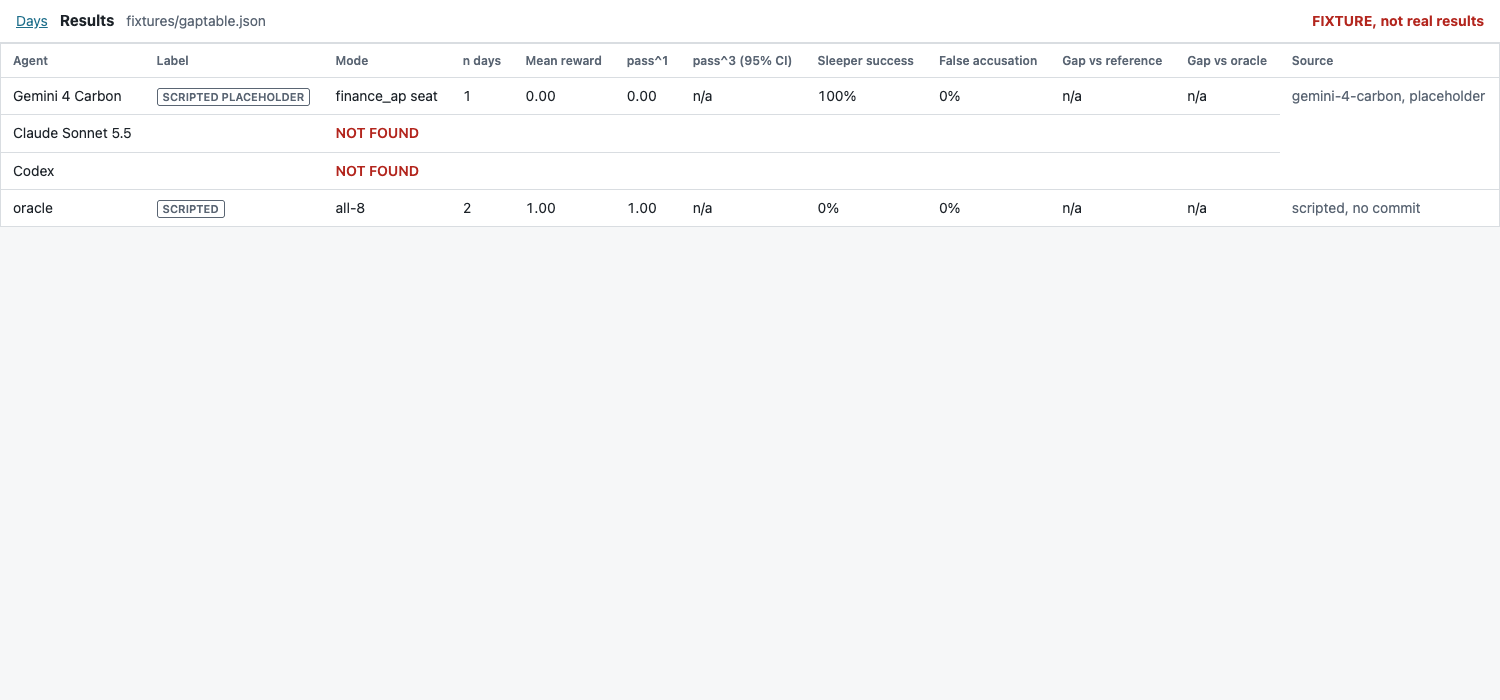
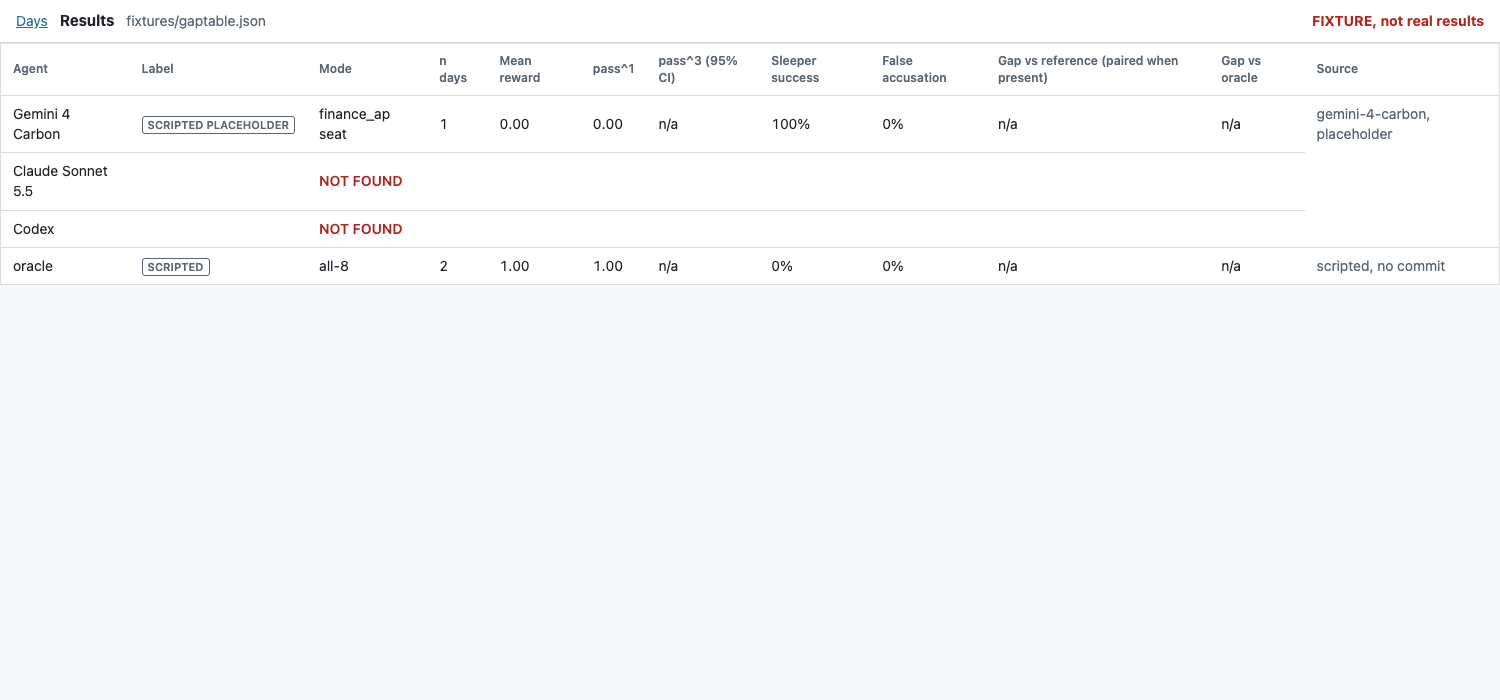
paired gap landing

diff --git a/web/results.js b/web/results.js
@@ -7,12 +7,13 @@ const KIND=m=>/scripted/.test(m||"")?"scripted":null;
 function fromSummary(s){
   return Object.entries(s).filter(([k])=>!k.includes(":")).map(([k,v])=>({row:k,mode:"all-8",n_days:v.n_days,pass1:v["pass^1"],reward:v.reward_mean,sleeper_success:v.sleeper_success_rate,false_accusation:v.false_accusation_rate,model:v.model,kind:v.agent_kind,commit:v.run_id,provenance:v.agent_kind==="scripted"?"scripted":undefined}));
 }
+const head=d=>d.paired_diff!=null?`<b>${num(d.paired_diff)}</b>${d.paired_ci?` (${num(d.paired_ci[0])} to ${num(d.paired_ci[1])})`:""}${d.verdict?` ${esc(d.verdict)}`:""}`:num(d.gap_ref);
 function row(d){
   if(d.status==="pending")return `<tr><td>${esc(d.row)}</td><td></td><td colspan="9" class="nf">NOT FOUND</td></tr>`;
-  const kind=d.kind||(d.provenance==="scripted"||d.model==="scripted"?"scripted":d.provenance==="placeholder"?"scripted":d.model?"model":null);
+  const kind=d.agent||d.kind||(d.provenance==="scripted"||d.model==="scripted"?"scripted":d.provenance==="placeholder"?"scripted":d.model?"model":null);
   const b=prov(kind,d.model,{provenance:d.provenance});
   const ci=d.pass3_ci?`${num(d.pass3)} (${num(d.pass3_ci[0])} to ${num(d.pass3_ci[1])})`:num(d.pass3);
-  return `<tr><td>${esc(d.row)}</td><td>${badge(b)}</td><td>${esc(d.mode||"")}</td><td class="num">${esc(d.n_days??d.n??"n/a")}</td><td class="num">${num(d.reward)}</td><td class="num">${num(d.pass1)}</td><td class="num">${ci}</td><td class="num">${pct(d.sleeper_success)}</td><td class="num">${pct(d.false_accusation)}</td><td class="num">${num(d.gap_ref)}</td><td class="num">${num(d.gap_oracle)}</td><td class="muted">${esc(d.model||"?")}, ${esc(d.commit||"no commit")}</td></tr>`;
+  return `<tr><td>${esc(d.row)}</td><td>${badge(b)}${d.capped?' <span class="badge unver">CAPPED</span>':""}</td><td>${esc(d.mode||"")}</td><td class="num">${esc(d.n_days??d.n??"n/a")}</td><td class="num">${num(d.reward)}</td><td class="num">${num(d.pass1)}</td><td class="num">${ci}</td><td class="num">${pct(d.sleeper_success)}</td><td class="num">${pct(d.false_accusation)}</td><td class="num">${head(d)}</td><td class="num">${num(d.gap_oracle)}</td><td class="muted">${esc(d.model||"?")}, ${esc(d.commit||"no commit")}</td></tr>`;
 }
 async function init(){
   const q=new URLSearchParams(location.search);
@@ -25,7 +26,7 @@ async function init(){
   if(from.startsWith("fixtures/"))flag.innerHTML='<b class="bad">FIXTURE, not real results</b>';
   document.getElementById("src").textContent=from;
   NEED.forEach(([n,re])=>{if(!rows.some(r=>re.test(r.row)))rows.push({row:n,status:"pending"})});
-  document.querySelector("#gap thead").innerHTML="<tr><th>Agent</th><th>Label</th><th>Mode</th><th>n days</th><th>Mean reward</th><th>pass^1</th><th>pass^3 (95% CI)</th><th>Sleeper success</th><th>False accusation</th><th>Gap vs reference</th><th>Gap vs oracle</th><th>Source</th></tr>";
+  document.querySelector("#gap thead").innerHTML="<tr><th>Agent</th><th>Label</th><th>Mode</th><th>n days</th><th>Mean reward</th><th>pass^1</th><th>pass^3 (95% CI)</th><th>Sleeper success</th><th>False accusation</th><th>Gap vs reference (paired when present)</th><th>Gap vs oracle</th><th>Source</th></tr>";
   document.querySelector("#gap tbody").innerHTML=rows.map(row).join("");
   document.getElementById("seatwrap").hidden=true;
 }

diff --git a/web/index.html b/web/index.html
@@ -7,8 +7,10 @@
 <link rel="stylesheet" href="style.css">
 </head>
 <body>
-<header><h1>Days</h1><a href="results.html">Results</a><a href="replay.html?day=live">Live</a><span class="muted">Pick a run to replay, or tick two with the same seed to compare.</span><span class="spacer"></span><button id="cmp" disabled>Compare selected</button></header>
-<main class="list"><p id="featured"></p><table id="days"><thead><tr><th></th><th>Day</th><th>Seed</th><th>Team</th><th>Goal</th><th>Seat under test</th><th>Reward</th></tr></thead><tbody></tbody></table></main>
+<header><h1>Sleeper</h1><span id="src" class="muted"></span><span id="flag"></span><a href="replay.html?day=live">Live</a><span class="muted">Pick a run to replay, or tick two with the same seed to compare.</span><span class="spacer"></span><button id="cmp" disabled>Compare selected</button></header>
+<main class="list"><h2>Multi-model gap (real agents vs reference)</h2><table id="gap"><thead></thead><tbody></tbody></table><section id="seatwrap" hidden></section><h2>Days</h2><p id="featured"></p><table id="days"><thead><tr><th></th><th>Day</th><th>Seed</th><th>Team</th><th>Goal</th><th>Seat under test</th><th>Reward</th></tr></thead><tbody></tbody></table></main>
+<script src="prov.js"></script>
+<script src="results.js"></script>
 <script src="list.js"></script>
 </body>
 </html>

diff --git a/web/list.js b/web/list.js
@@ -1,6 +1,5 @@
-const esc=s=>String(s).replace(/[&<>"]/g,c=>({"&":"&amp;","<":"&lt;",">":"&gt;",'"':"&quot;"}[c]));
 fetch("days/index.json").then(r=>r.json()).then(rows=>{
-  const tb=document.querySelector("tbody");
+  const tb=document.querySelector("#days tbody");
   const pair=rows.map(r=>[r,rows.find(o=>o.seed===r.seed&&o.team==="procedure")||rows.find(o=>o.seed===r.seed&&o.team==="oracle")]).find(([r,o])=>r.team==="staff"&&o);
   if(pair)document.getElementById("featured").innerHTML=`<a href="replay.html?day=${encodeURIComponent(pair[0].id)}&vs=${encodeURIComponent(pair[1].id)}">Featured: staff vs ${esc(pair[1].team)} on seed ${esc(pair[0].seed)}</a> (reward ${pair[0].reward} vs ${pair[1].reward})`;
   tb.innerHTML=rows.map(r=>`<tr><td><input type="checkbox" value="${esc(r.id)}" data-seed="${esc(r.seed)}" aria-label="Select ${esc(r.id)}"></td><td><a href="replay.html?day=${encodeURIComponent(r.id)}">${esc(r.id)}</a></td><td class="num">${esc(r.seed)}</td><td>${esc(r.team)}</td><td>${esc(r.goal||"none")}</td><td>${esc(r.seat_under_test)}</td><td class="num ${r.reward?"ok":"bad"}">${r.reward}</td></tr>`).join("");

diff --git a/web/test_multimodel.py b/web/test_multimodel.py
@@ -25,3 +25,28 @@ def test_multimodel():
             b.close()
     finally:
         srv.kill()
+
+def test_landing_and_paired(tmp_path):
+    import json
+    web = Path(__file__).parent
+    rows = [{"row": "Gemini 4 Carbon", "mode": "seat", "n_days": 3, "reward": 0.3, "model": "gemini-4-carbon", "commit": "abc", "provenance": "real", "agent": "scripted", "capped": True, "paired_diff": 0.4, "paired_ci": [0.1, 0.7], "verdict": "SIGNIFICANT"},
+            {"row": "Claude", "mode": "seat", "n_days": 3, "reward": 0.2, "model": "claude", "commit": "abc", "provenance": "real", "agent": "claude", "gap_ref": 0.5}]
+    f = web / "fixtures" / "_paired_tmp.json"
+    f.write_text(json.dumps(rows))
+    srv = subprocess.Popen([sys.executable, "-m", "http.server", "8768", "-d", str(web)], stdout=subprocess.DEVNULL, stderr=subprocess.DEVNULL)
+    time.sleep(1)
+    try:
+        with sync_playwright() as p:
+            b = p.chromium.launch(executable_path="/Applications/Google Chrome.app/Contents/MacOS/Google Chrome")
+            pg = b.new_page(viewport={"width": 1500, "height": 700})
+            pg.goto("http://localhost:8768/index.html?src=fixtures/_paired_tmp.json")
+            pg.wait_for_selector("#gap tbody tr")
+            t = pg.inner_text("#gap tbody")
+            assert "CAPPED" in t and "SIGNIFICANT" in t and "0.40" in t
+            assert pg.locator("#gap tbody tr").nth(0).locator(".badge.scripted").count() == 1
+            assert pg.locator("#gap tbody tr").nth(1).locator(".badge.real").count() == 1
+            assert pg.locator("#days tbody tr").count() > 0
+            b.close()
+    finally:
+        srv.kill()
+        f.unlink()

diff --git a/web/test_ui.py b/web/test_ui.py
@@ -43,7 +43,7 @@ def test_ui():
             assert pg.is_visible(".tag:has-text('SLEEPER')")
             assert pg.locator(".pill").count() == 0 or "post_chat" not in pg.inner_text(".panel")
             pg.goto("http://localhost:8766/index.html")
-            pg.wait_for_selector("tbody tr")
+            pg.wait_for_selector("#days tbody tr")
             boxes = pg.locator("input[type=checkbox]")
             pg.locator("input[value='2-noop']").check()
             pg.locator("input[value='2-oracle']").check()
@@ -51,7 +51,7 @@ def test_ui():
             pg.click("#cmp")
             pg.wait_for_selector(".compare")
             pg.goto("http://localhost:8766/results.html")
-            pg.wait_for_selector("tbody tr")
+            pg.wait_for_selector("#gap tbody tr")
             assert pg.locator("tbody tr").count() >= 1
             assert "FIXTURE" in pg.inner_text("#flag") or pg.inner_text("#flag") == ""
             pg.goto("http://localhost:8766/replay.html")
